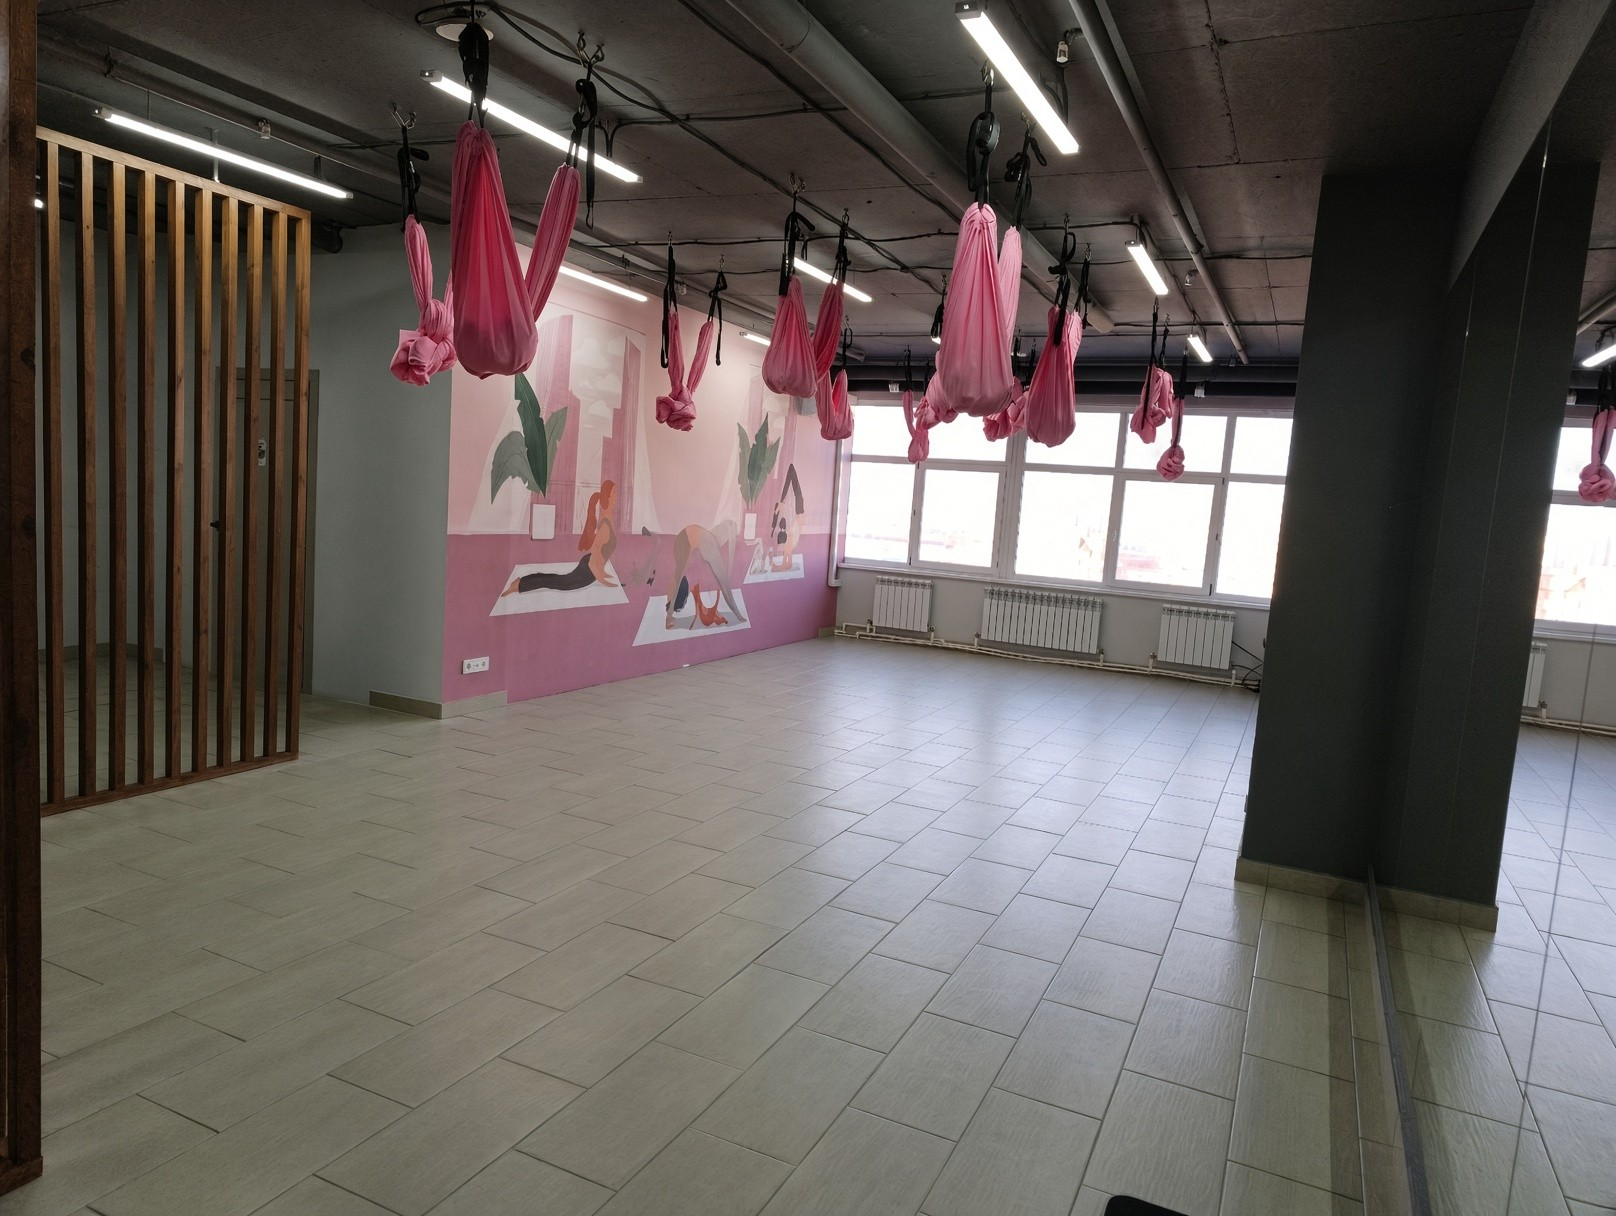
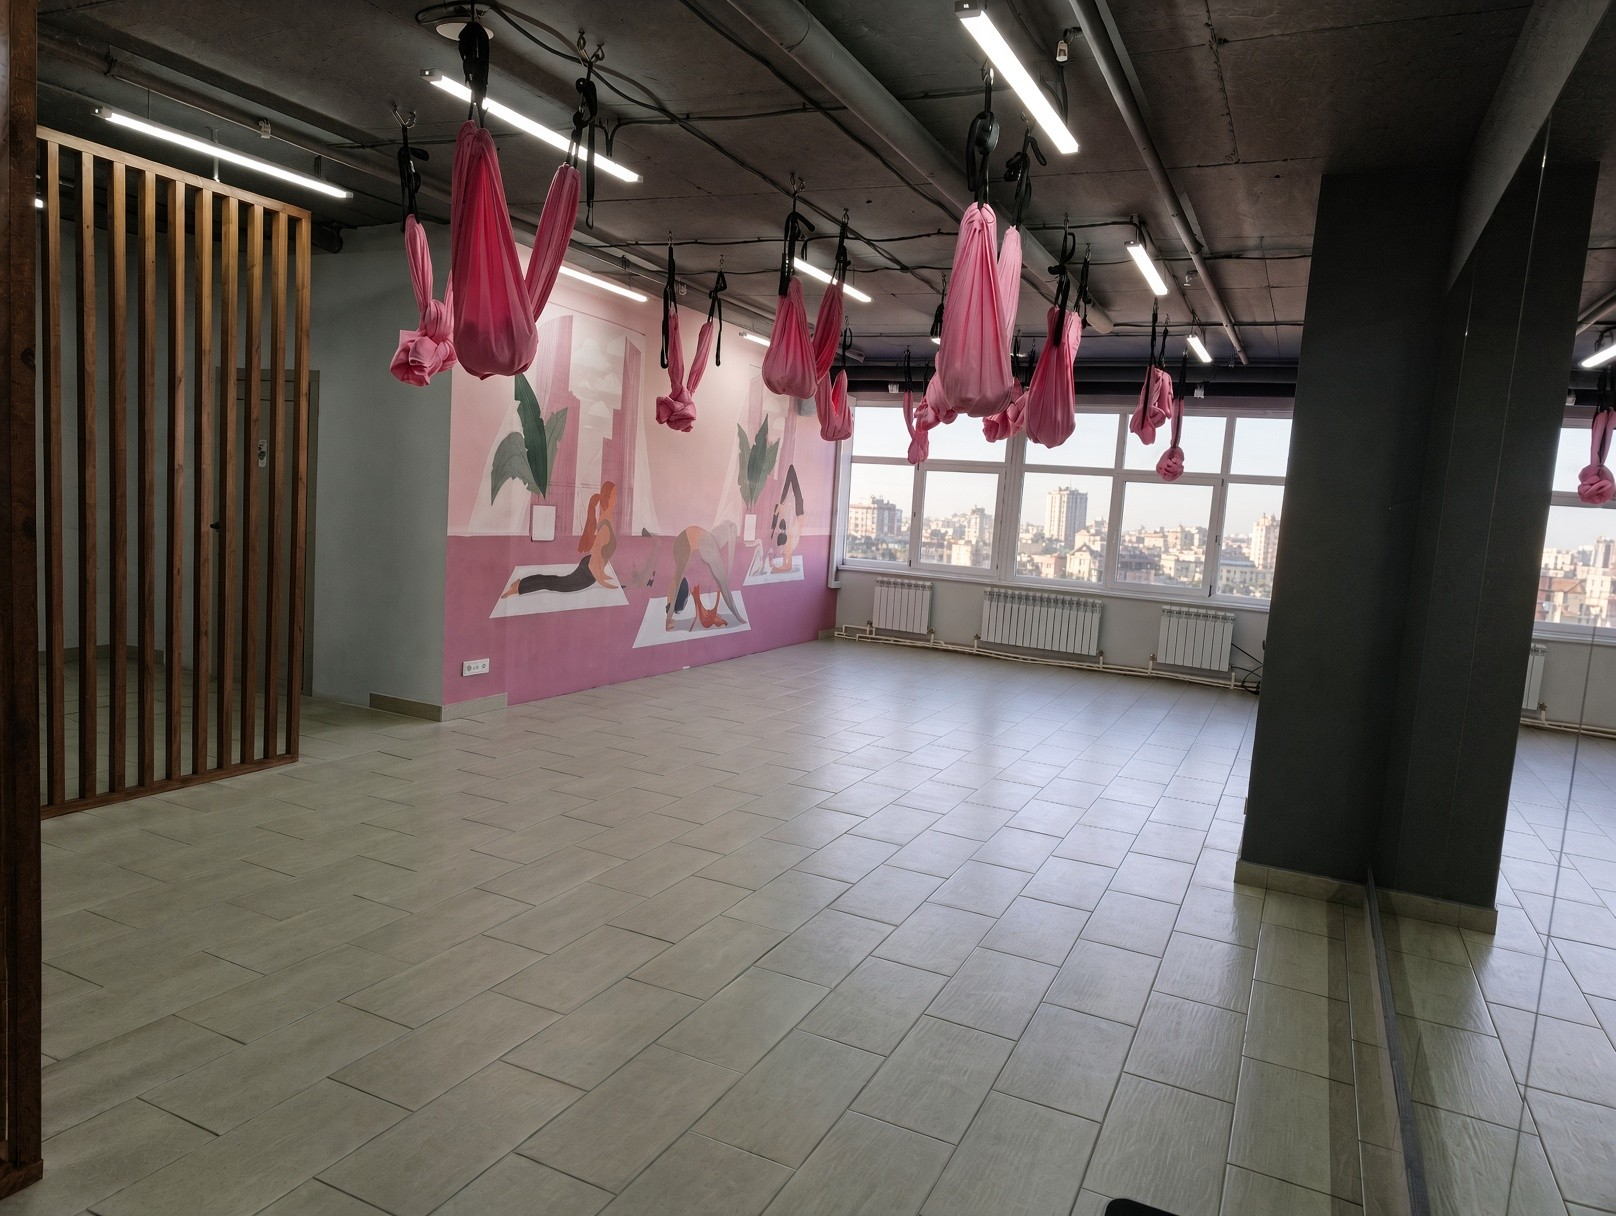
Фото зала без засветки: вид из окон на город

diff --git a/public/index.html b/public/index.html
@@ -57,8 +57,8 @@
   <!-- HERO: широкое фото на всю высоту экрана, текст слева, реальное фото зала справа -->
   <section class="hero">
     <div class="hero-media">
-      <img class="hero-photo" data-zoom="hall" data-full="img/hall-hero.webp" src="img/hall-hero.webp" srcset="img/hall-v2-640.webp 640w, img/hall-v2.webp 1280w, img/hall-hero.webp 1616w" sizes="(max-width: 960px) 100vw, 66vw" width="1616" height="1216" fetchpriority="high"
-           alt="Зал: окна во всю стену, роспись, розовые гамаки и светлый пол">
+      <img class="hero-photo" data-zoom="hall" data-full="img/hall-hero-v3.webp" src="img/hall-hero-v3.webp" srcset="img/hall-v3-640.webp 640w, img/hall-v3.webp 1280w, img/hall-hero-v3.webp 1616w" sizes="(max-width: 960px) 100vw, 66vw" width="1616" height="1216" fetchpriority="high"
+           alt="Зал: окна во всю стену с видом на город, роспись, розовые гамаки, светлый пол">
     </div>
 
     <div class="hero-inner">
@@ -208,7 +208,7 @@
       <p>Только реальные фото: 101 м², окна во всю стену, зеркала, гамаки, раздевалка и ресепшен. Листайте в обе стороны и нажмите на фото, чтобы рассмотреть.</p>
     </div>
     <ul class="slider" id="hallSlider" data-slider data-count="hallCount" tabindex="0" aria-label="Фото зала, листайте">
-      <li class="slide"><img data-zoom="hall" data-full="img/hall-v2.webp" src="img/hall-v2.webp" srcset="img/hall-v2-640.webp 640w, img/hall-v2.webp 1280w" sizes="(max-width: 720px) 86vw, 760px" width="1280" height="964" loading="eager" alt="Основной зал: окна во всю стену, роспись на стене, розовые гамаки, светлый пол"><span class="slide-cap"><b>Основной зал</b><small>1 / 5</small></span></li>
+      <li class="slide"><img data-zoom="hall" data-full="img/hall-v3.webp" src="img/hall-v3.webp" srcset="img/hall-v3-640.webp 640w, img/hall-v3.webp 1280w" sizes="(max-width: 720px) 86vw, 760px" width="1280" height="964" loading="eager" alt="Основной зал: окна во всю стену, роспись на стене, розовые гамаки, светлый пол"><span class="slide-cap"><b>Основной зал</b><small>1 / 5</small></span></li>
       <li class="slide"><img data-zoom="hall" data-full="img/zone-v2.webp" src="img/zone-v2.webp" srcset="img/zone-v2-640.webp 640w, img/zone-v2.webp 1280w" sizes="(max-width: 720px) 86vw, 760px" width="1280" height="964" loading="lazy" alt="Стена зеркал, розовые гамаки и стеллажи с ковриками и роллами"><span class="slide-cap"><b>Зеркала и инвентарь</b><small>2 / 5</small></span></li>
       <li class="slide"><img data-zoom="hall" data-full="img/lockers.webp" src="img/lockers.webp" srcset="img/lockers-640.webp 640w, img/lockers.webp 1280w" sizes="(max-width: 720px) 86vw, 760px" width="1280" height="964" loading="lazy" alt="Раздевалка: шкафчики с номерами и скамейки"><span class="slide-cap"><b>Раздевалка</b><small>3 / 5</small></span></li>
       <li class="slide"><img data-zoom="hall" data-full="img/mirror-v2.webp" src="img/mirror-v2.webp" srcset="img/mirror-v2-640.webp 640w, img/mirror-v2.webp 1280w" sizes="(max-width: 720px) 86vw, 760px" width="1280" height="964" loading="lazy" alt="Зеркало с подсветкой и фен в раздевалке"><span class="slide-cap"><b>Зеркало и фен</b><small>4 / 5</small></span></li>
@@ -248,7 +248,7 @@
     <p class="section-lead">Зал бронируется по часам, от одного часа. Вечер самое востребованное время, поэтому дороже.</p>
     <div class="tariffs">
       <article class="tariff tariff-day">
-        <img class="tariff-photo" data-zoom="hall" data-full="img/hall-v2.webp" src="img/hall-v2-640.webp" srcset="img/hall-v2-640.webp 640w, img/hall-v2.webp 1280w" sizes="(max-width: 720px) 100vw, 560px" width="1280" height="964" loading="lazy" alt="Днём в зале светло: окна во всю стену">
+        <img class="tariff-photo" data-zoom="hall" data-full="img/hall-v3.webp" src="img/hall-v3-640.webp" srcset="img/hall-v3-640.webp 640w, img/hall-v3.webp 1280w" sizes="(max-width: 720px) 100vw, 560px" width="1280" height="964" loading="lazy" alt="Днём в зале светло: окна во всю стену">
         <p class="tariff-name">День</p>
         <p class="tariff-price"><span id="priceDay">800</span> ₽<small>/час</small></p>
         <p class="tariff-time">09:00 – 17:00</p>
